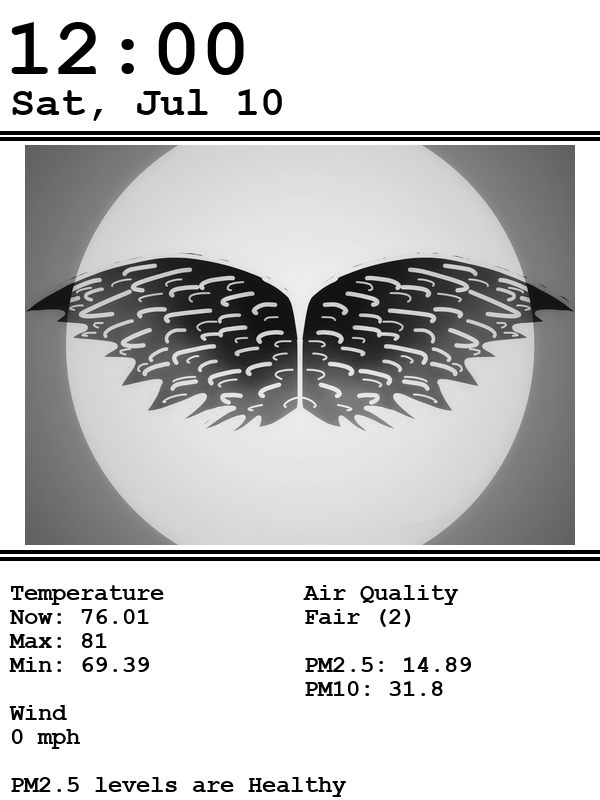
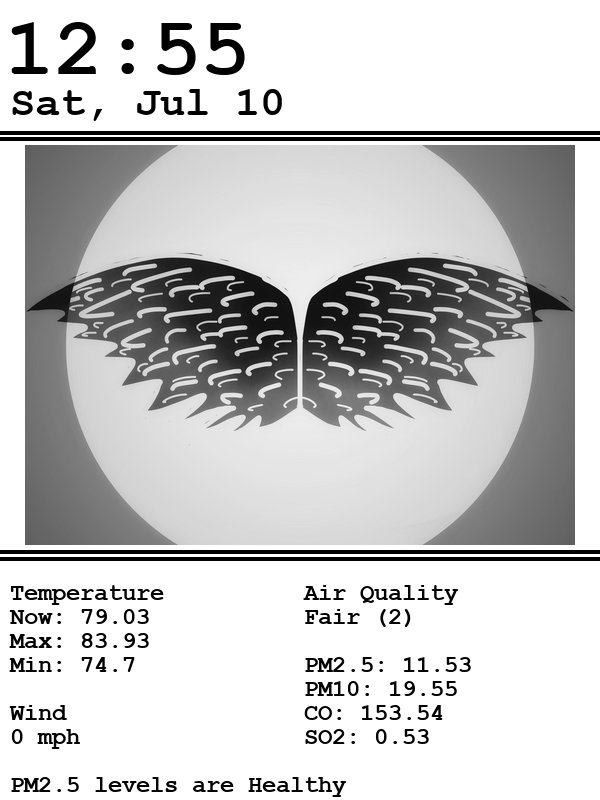
Added CO and S02:

diff --git a/modules/openweather/weatherhandler.py b/modules/openweather/weatherhandler.py
@@ -12,6 +12,7 @@ class WeatherHandler:
         __location__ = os.path.realpath(os.path.join(os.getcwd(), os.path.dirname(__file__)))
         with open(os.path.join(__location__, "apikey.txt")) as ak:
             self.api_key = ak.readline()
+        self.api_key = self.api_key.strip()
         self.air_quality_uri = "http://api.openweathermap.org/data/2.5/air_pollution?lat={}&lon={}&appid={}"
         self.weather_uri =  "http://api.openweathermap.org/data/2.5/weather?lat={}&lon={}&appid={}&units=imperial"
 
@@ -23,8 +24,8 @@ class WeatherHandler:
 
         request_uri = self.air_quality_uri.format(self.lat, self.lon, self.api_key)
         response = requests.get(request_uri, headers=headers)
-        print(request_uri)
-        print(response)
+        #print(request_uri)
+        #print(response)
         data = response.json()["list"][0]
         aq = {
             "overall" : data["main"]["aqi"],
@@ -49,8 +50,8 @@ class WeatherHandler:
 
         request_uri = self.weather_uri.format(self.lat, self.lon, self.api_key)
         response = requests.get(request_uri, headers=headers)
-        print(request_uri)
-        print(response)
+        #print(request_uri)
+        #print(response)
 
         data = response.json()
         we = {

diff --git a/modules/reddit/reddit.py b/modules/reddit/reddit.py
@@ -75,17 +75,20 @@ class RedditImageController:
             w_offset = (w - w_const)//2
 
         im = im.crop((w_offset, h_offset, w-w_offset, h-h_offset))
-        im.save('images/pixel_art.png')
+        im.save('images/redditimage.png')
+
+        print(f"Deleting image file to save space: {filename}")
+        os.remove(filename)
 
     def gif_to_png(self, filename):
         im = Image.open(filename)
         im.seek(0)
-        im.save('images/pixel_art.png')
+        im.save('images/redditimage.png')
         os.remove(filename)
-        return 'images/pixel_art.png'
+        return 'images/redditimage.png'
 
     def jpg_to_png(self, filename):
         im = Image.open(filename)
-        im.save('images/pixel_art.png')
+        im.save('images/redditimage.png')
         os.remove(filename)
-        return 'images/pixel_art.png'
+        return 'images/redditimage.png'

diff --git a/display.py b/display.py
@@ -189,10 +189,10 @@ class Display:
 Temperature          Air Quality
 Now: {wh['temp']}           {aq_txt[aq['overall']]} ({aq['overall']})
 Max: {wh['temp_max']}                   
-Min: {wh['temp_min']}           PM2.5: {pm2_5}
+Min: {wh['temp_min']}            PM2.5: {pm2_5}
                      PM10: {aq['pm10']}
-Wind
-{wh['wind_speed']} mph
+Wind                 CO: {aq['co']}
+{wh['wind_speed']} mph                SO2: {aq['so2']}
 
 PM2.5 levels are {pm2_5_health}
         """.strip()
